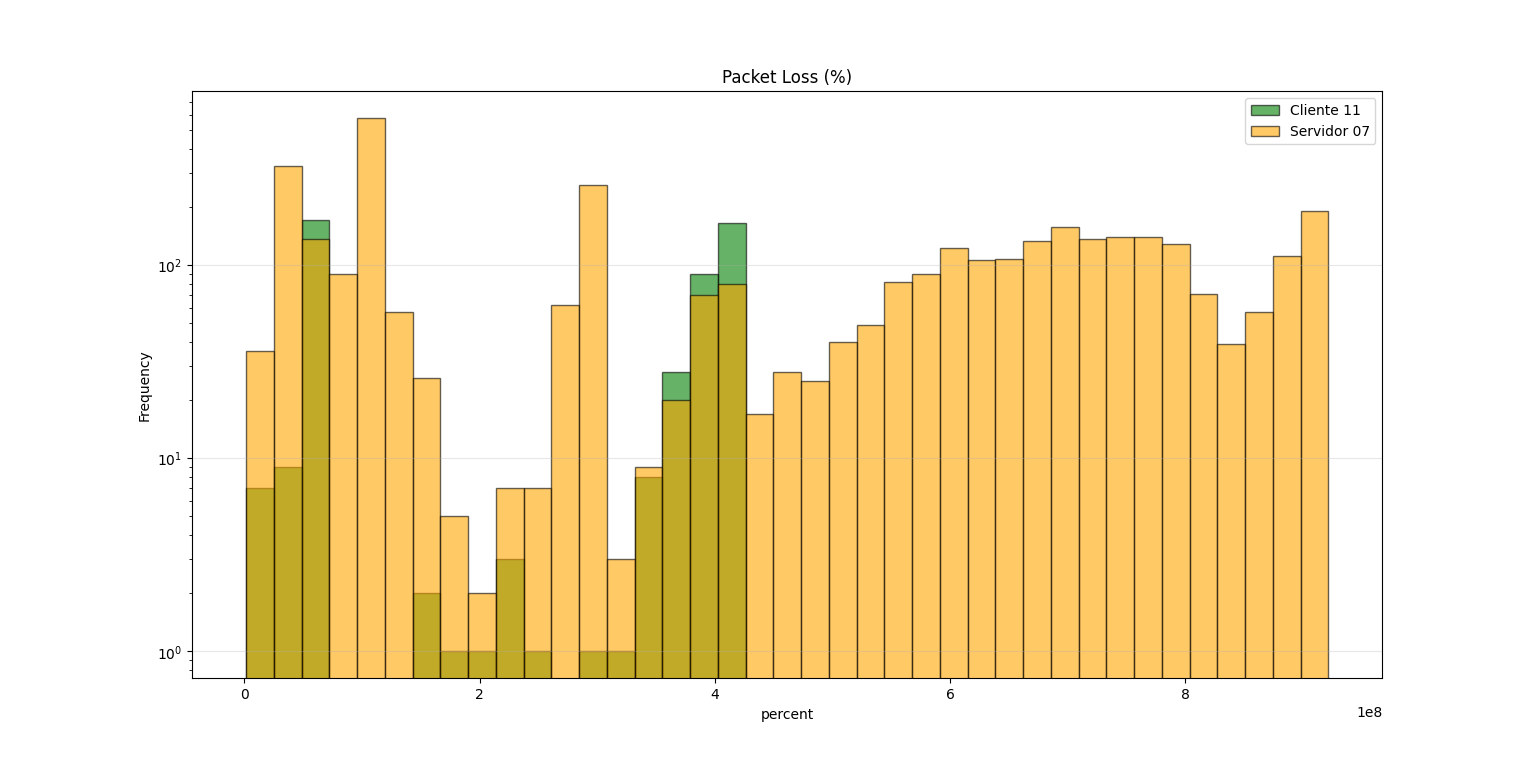
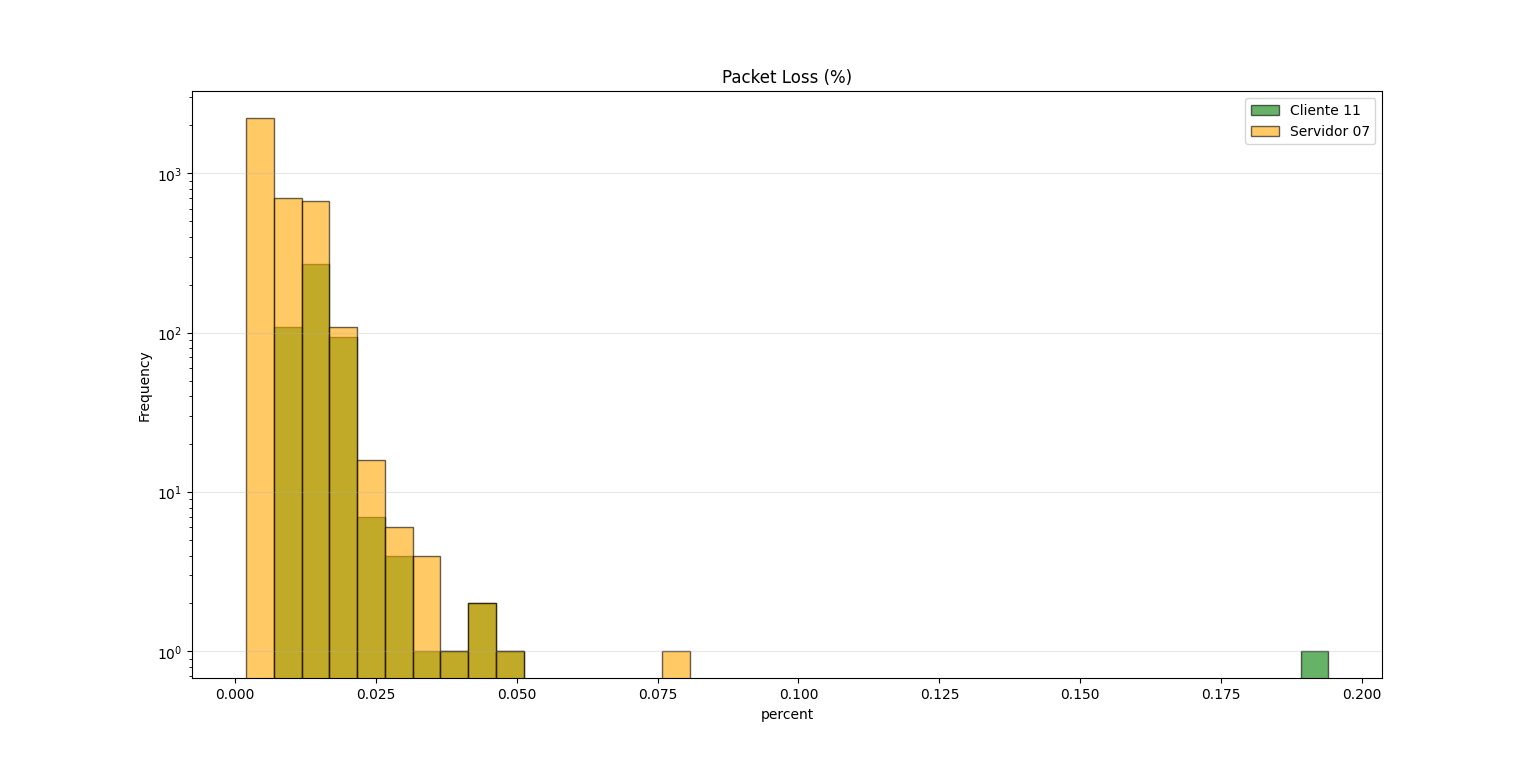
data filteres (without negative numbers)

diff --git a/trabalho_parte1/graph_maker.py b/trabalho_parte1/graph_maker.py
@@ -20,6 +20,24 @@ ser07ut = varSer07['ser07ut']
 ser07rttu = varSer07['ser07rttu']
 ser07pl = varSer07['ser07pl']
 
+# function to clean the list (exclude the negative numbers)
+def clean(l):
+    cleanL = [x for x in l if x >= 0]
+    return cleanL
+
+# cleaning the functions
+cli11dt = clean(cli11dt)
+cli11rttd = clean(cli11rttd)
+cli11ut = clean(cli11ut)
+cli11rttu = clean(cli11rttu)
+cli11pl = clean(cli11pl)
+
+ser07dt = clean(ser07dt)
+ser07rttd = clean(ser07rttd)
+ser07ut = clean(ser07ut)
+ser07rttu = clean(ser07rttu)
+ser07pl = clean(ser07pl)
+
 #===============================================================================================================================================================
 # creating the histogram
 
@@ -73,6 +91,8 @@ def histogram_double(data1, data2, binNum, title, xline, yline, graphSize=(12,6)
 
 #histogram_double(cli11dt, ser07dt, 40, "Download Throughput (bps)", "bps", "Frequency", (16,8))
 #histogram_double(cli11ut, ser07ut, 40, "Upload Throughput (bps)", "bps", "Frequency", (16,8))
-#histogram_double(cli11ut, ser07ut, 40, "RTT Download (sec)", "sec", "Frequency", (16,8))
-#histogram_double(cli11ut, ser07ut, 40, "RTT Upload (sec)", "sec", "Frequency", (16,8))
-histogram_double(cli11ut, ser07ut, 40, "Packet Loss (%)", "percent", "Frequency", (16,8))
+#histogram_double(cli11pl, ser07pl, 40, "RTT Download (sec)", "sec", "Frequency", (16,8))
+#histogram_double(cli11rttd, ser07rttd, 40, "RTT Upload (sec)", "sec", "Frequency", (16,8))
+#histogram_double(cli11rttu, ser07rttu, 40, "Packet Loss (%)", "percent", "Frequency", (16,8))
+
+print(ser07rttd)
